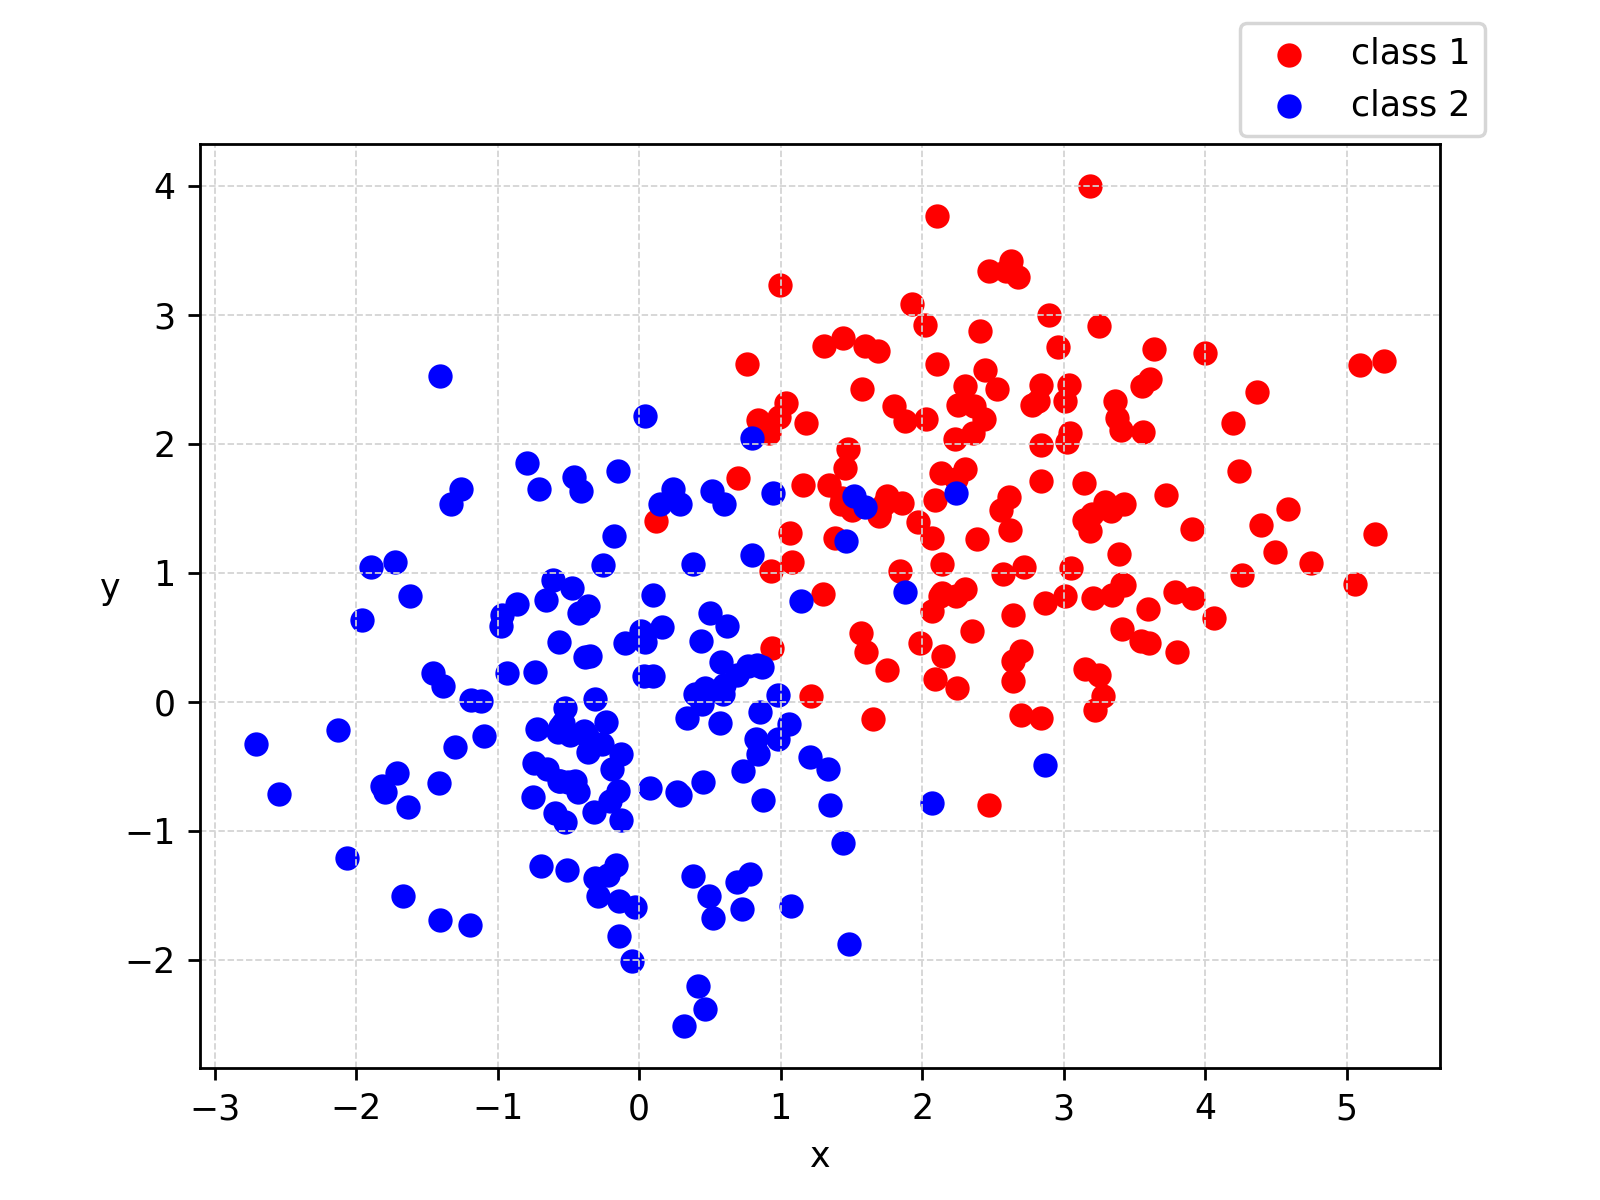
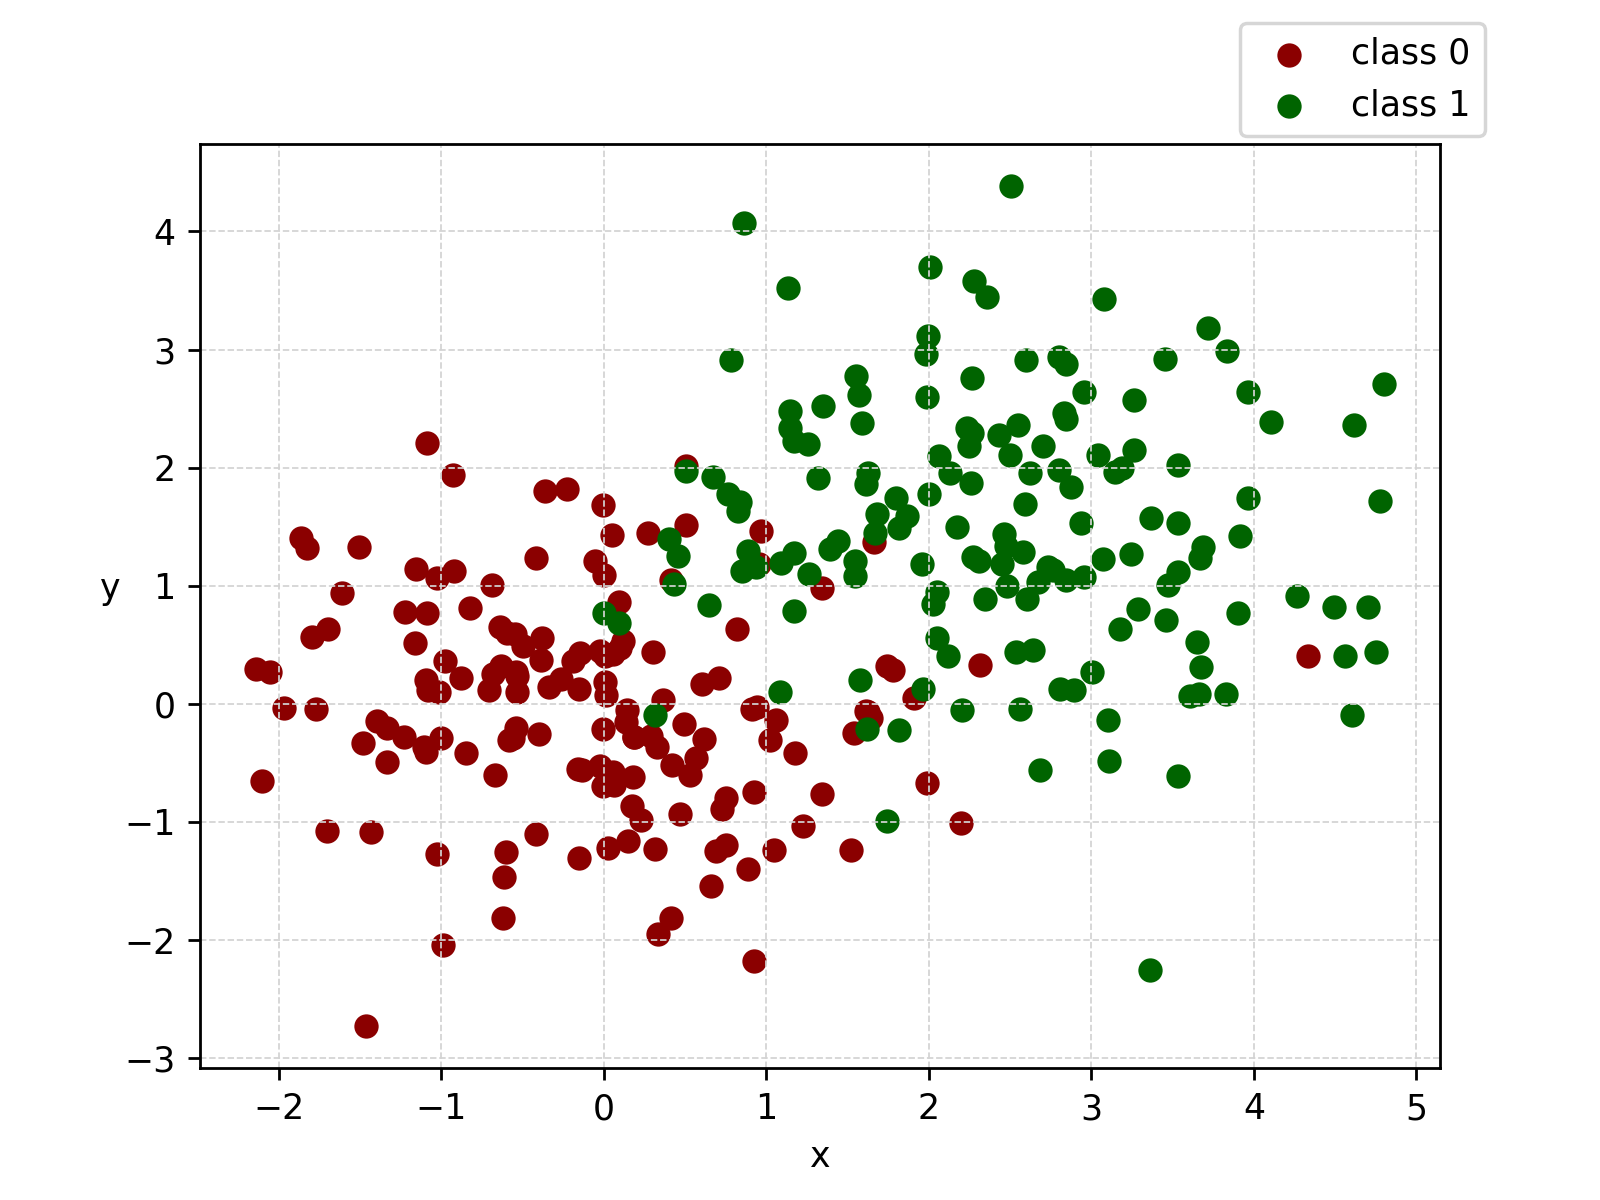
add scatterplot with class labels

diff --git a/2_matplotlib/2_scatterplot.py b/2_matplotlib/2_scatterplot.py
@@ -4,6 +4,7 @@ print('SCATTERPLOT')
 import numpy as np
 import matplotlib.pyplot as plt
 from mpl_toolkits.mplot3d import Axes3D
+import matplotlib
 
 print('2-D')
 data2D = np.random.randn(300,2)
@@ -21,11 +22,18 @@ data2D_classes = np.random.randn(300,2)
 data2D_classes[:150,0] +=2.5
 data2D_classes[:150,1] +=1.5
 
+# create labels
+labels = np.zeros(300)
+labels[:150] = 1
+labels[150:] = 0
+classes = np.unique(labels) # basically [0,1] but like this is more general!
+
 plt.xlabel('x')
 plt.ylabel('y', rotation=0)
-plt.scatter(data2D_classes[:150, 0], data2D_classes[:150, 1], color='r', marker='o')
-plt.scatter(data2D_classes[150:, 0], data2D_classes[150:, 1], color='b', marker='o')
-plt.legend(('class 1','class 2'), loc='upper right', bbox_to_anchor=(1.05, 1.15))
+for i, j in enumerate(classes):
+    plt.scatter(data2D_classes[labels == j, 0], data2D_classes[labels == j, 1],
+                c = [matplotlib.colors.ListedColormap(('darkred', 'darkgreen'))(i)], label = j)
+plt.legend(('class 0','class 1'), loc='upper right', bbox_to_anchor=(1.05, 1.15))
 plt.grid(color='lightgray', linestyle='--', linewidth=0.5)
 plt.savefig('scatterplot-2D-classes.png', dpi = 250)
 plt.clf()
